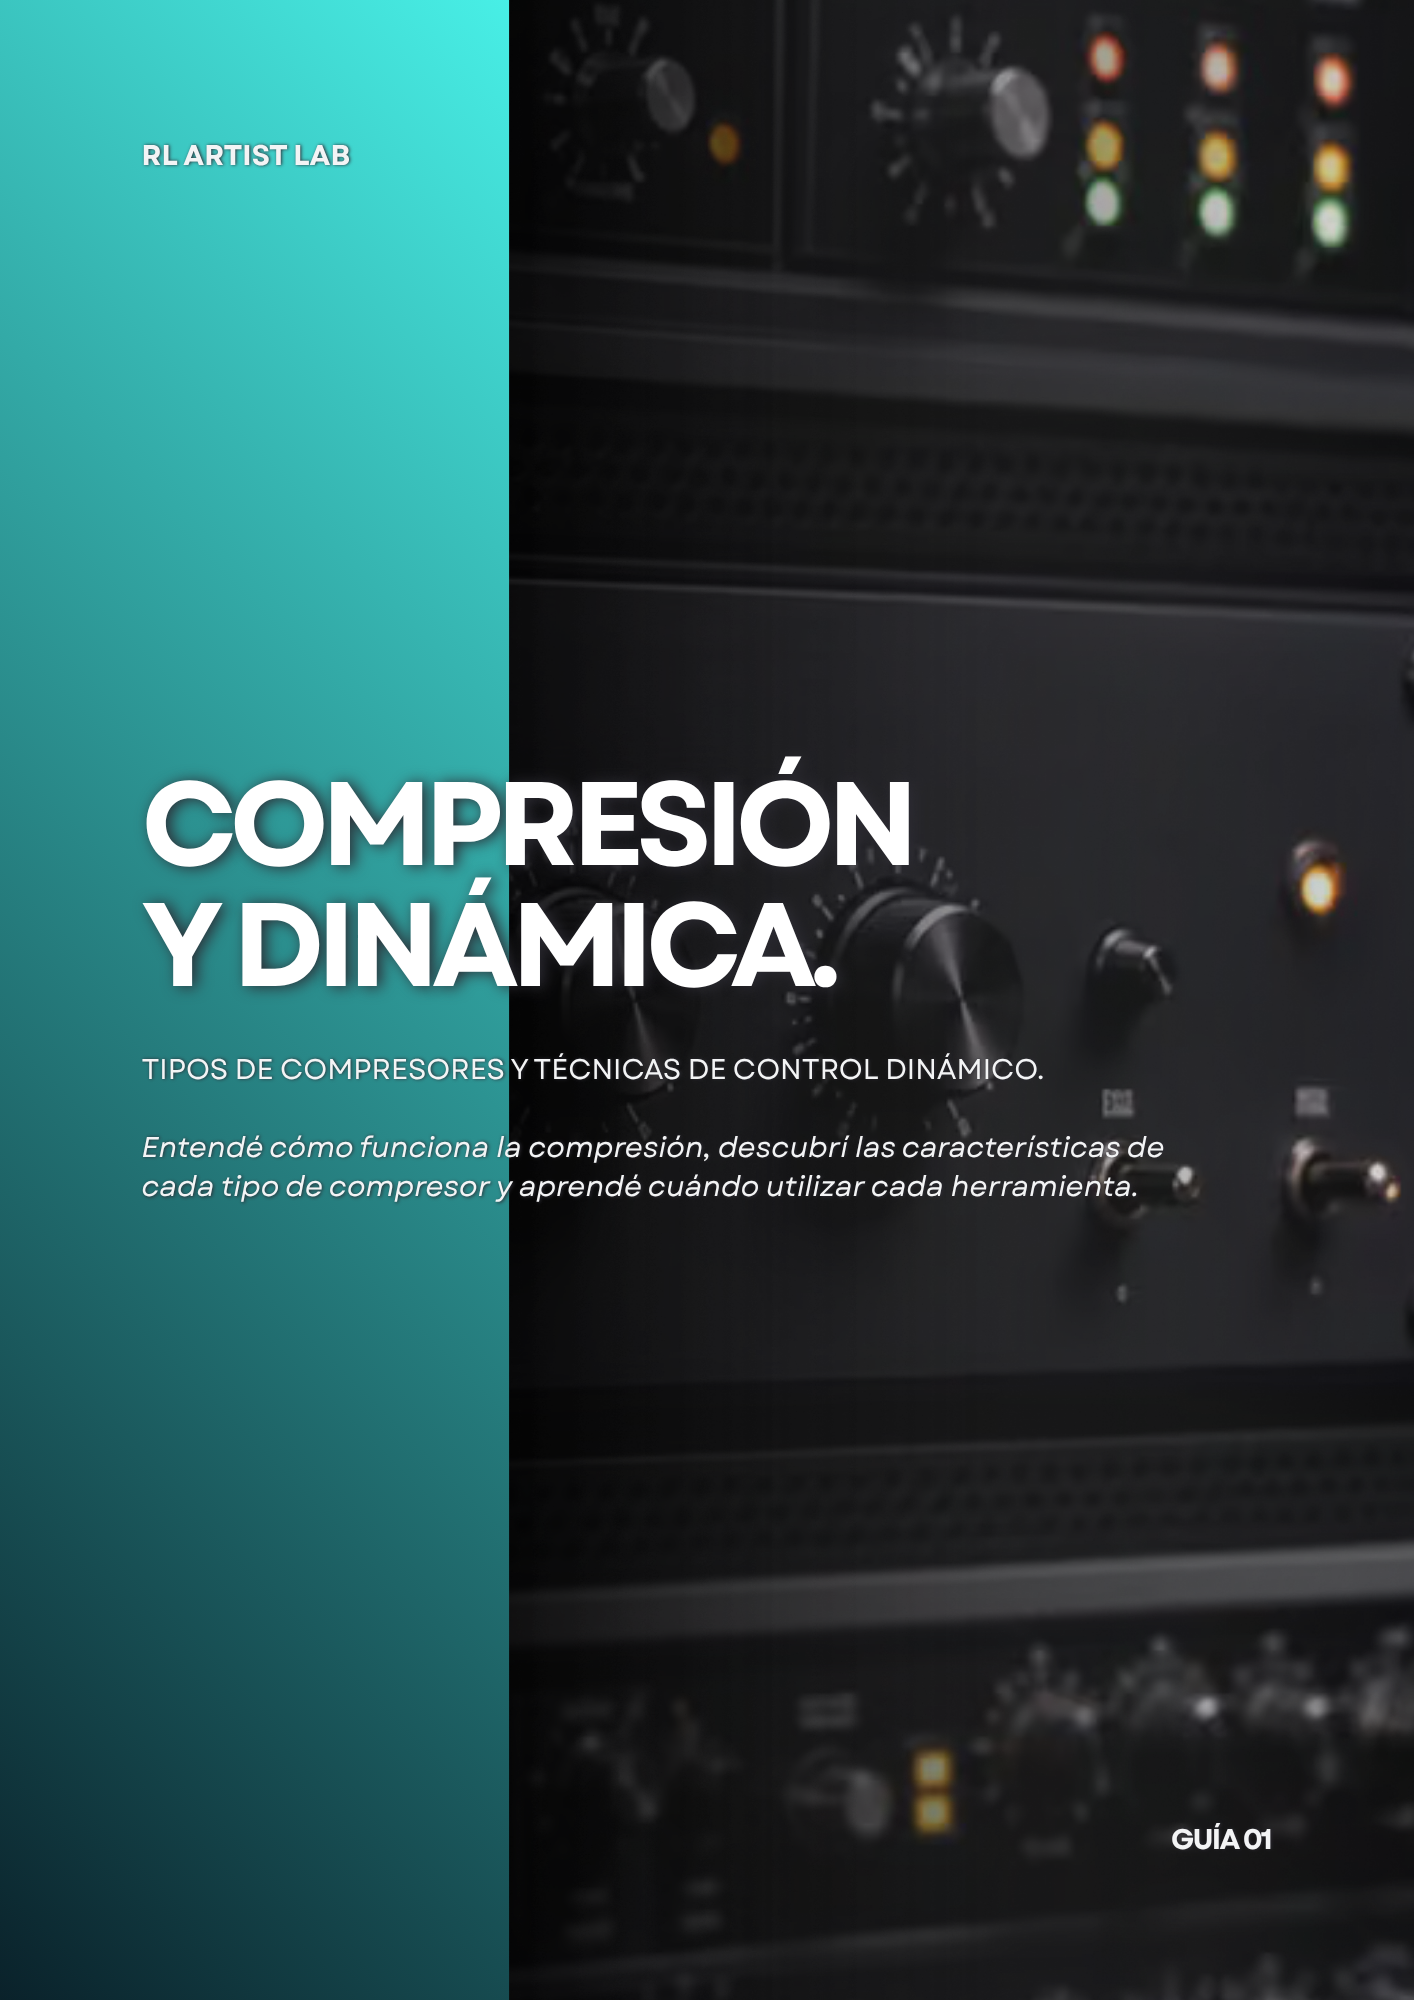
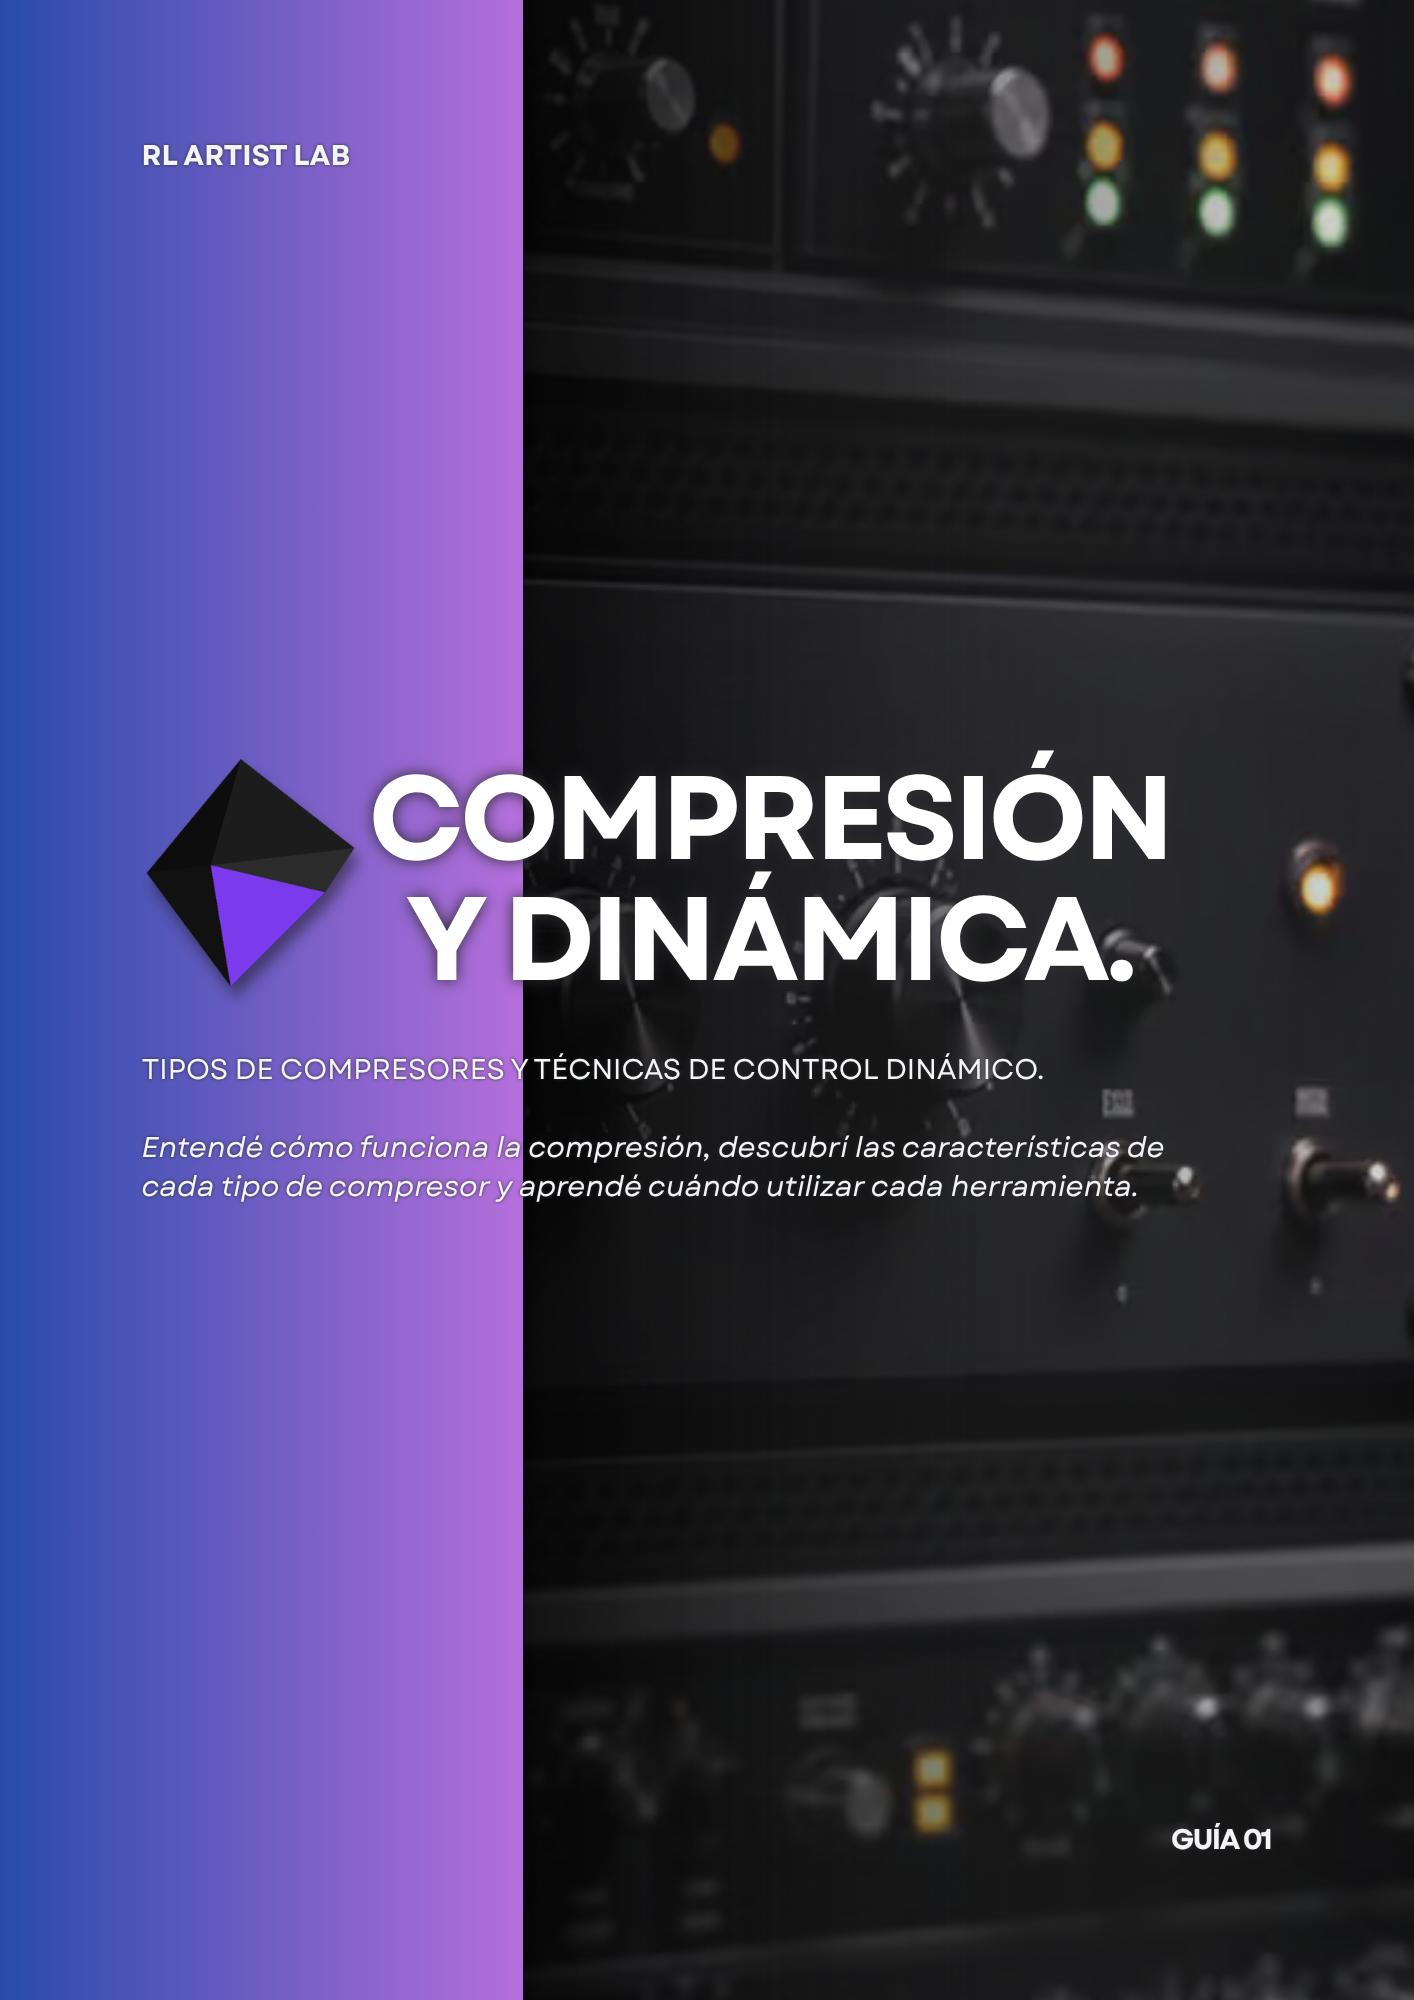
Reestructurar seccion Cursos en grilla y nueva pagina Creator 360

diff --git a/curso-creator-360.html b/curso-creator-360.html
@@ -1,0 +1,192 @@
+<!DOCTYPE html>
+<html lang="es">
+<head>
+<meta charset="UTF-8">
+<meta name="viewport" content="width=device-width, initial-scale=1.0">
+
+<title>Creator 360 Coaching | RL Artist Lab</title>
+<meta name="description" content="Creator 360 Coaching: acompañamiento 100% personalizado en 3 niveles para desarrollar tu identidad musical, con Angel Marcelo.">
+<meta name="robots" content="index, follow">
+<link rel="canonical" href="https://angelmarcelok.github.io/curso-creator-360.html">
+
+<meta property="og:type" content="website">
+<meta property="og:site_name" content="RL Artist Lab">
+<meta property="og:title" content="Creator 360 Coaching | RL Artist Lab">
+<meta property="og:description" content="Acompañamiento 100% personalizado, adaptado a tu nivel, tus objetivos y tu forma de aprender.">
+<meta property="og:url" content="https://angelmarcelok.github.io/curso-creator-360.html">
+<meta property="og:image" content="https://angelmarcelok.github.io/img/curso-creator-360.jpg">
+<meta property="og:locale" content="es_AR">
+
+<link rel="icon" type="image/png" sizes="32x32" href="img/favicon-32.png">
+<link rel="icon" type="image/png" sizes="512x512" href="img/favicon-512.png">
+<link rel="apple-touch-icon" href="img/favicon-512.png">
+
+<link rel="preconnect" href="https://fonts.googleapis.com">
+<link rel="preconnect" href="https://fonts.gstatic.com" crossorigin>
+<link href="https://fonts.googleapis.com/css2?family=Space+Grotesk:wght@400;500;700&family=Inter:wght@400;500;600&family=IBM+Plex+Mono:wght@400;500&display=swap" rel="stylesheet">
+<link rel="stylesheet" href="css/style.css">
+</head>
+<body>
+
+<div class="waveform-bg" aria-hidden="true"></div>
+
+<header class="site-header">
+  <a href="index.html#home" class="logo" aria-label="RL Artist Lab — Ir al inicio">
+    <svg class="logo-mark" viewBox="0 0 100 100" aria-hidden="true">
+      <polygon points="50,4 38,47 12,50" fill="#0d0d0d"/>
+      <polygon points="50,4 96,40 38,47" fill="#1c1c1c"/>
+      <polygon points="96,40 84,58 38,47" fill="#2b2b2b"/>
+      <polygon points="12,50 38,47 46,96" fill="#111111"/>
+      <polygon points="38,47 84,58 46,96" fill="#E8720F"/>
+    </svg>
+    <span class="logo-text">RL Artist Lab</span>
+  </a>
+  <button class="nav-toggle" id="navToggle" aria-label="Abrir menú" aria-expanded="false">
+    <span></span><span></span><span></span>
+  </button>
+  <nav class="site-nav" id="siteNav">
+    <a href="index.html#cursos">Cursos</a>
+    <a href="index.html#samples">Samplepacks</a>
+    <a href="index.html#guias">Guías</a>
+    <a href="index.html#servicios">Servicios</a>
+    <a href="index.html#tutoriales">Tutoriales</a>
+    <a href="#" class="nav-locked" title="Próximamente">Mi Usuario 🔒</a>
+  </nav>
+</header>
+
+<main>
+
+  <!-- Barra de navegación específica de esta página -->
+  <div class="subpage-nav">
+    <a href="index.html#cursos" class="btn btn-outline btn-small">← Volver a Cursos</a>
+  </div>
+
+  <!-- CREATOR 360 COACHING -->
+  <section class="section" id="creator-360">
+    <div class="course-card">
+      <span class="badge">Creator 360 Coaching</span>
+      <h1>Desarrollá tu identidad musical</h1>
+      <p class="section-intro course-lead">Un recorrido en 3 niveles para pasar de tus primeras ideas a un proyecto listo para lanzar. Acompañamiento 100% personalizado, adaptado a tu nivel, tus objetivos y tu forma de aprender.</p>
+
+      <div class="level-grid">
+        <div class="level-card">
+          <p class="level-num">01</p>
+          <h3>Inicial</h3>
+          <p>Bases de producción en FL Studio: teoría musical, mezcla y mastering de punta a punta, hasta terminar tu primera canción completa.</p>
+        </div>
+        <div class="level-card">
+          <p class="level-num">02</p>
+          <h3>Intermedio</h3>
+          <p>Auditoría de tu nivel actual y acompañamiento personalizado para pulir tu flujo de trabajo, tu criterio de mezcla y tu identidad sonora.</p>
+        </div>
+        <div class="level-card">
+          <p class="level-num">03</p>
+          <h3>Avanzado</h3>
+          <p>Profesionalización: industria musical, derechos de autor, marca personal y un proyecto final con estándares comerciales.</p>
+        </div>
+      </div>
+
+      <div class="course-info-grid">
+        <div class="course-faq-col">
+          <h3>Preguntas frecuentes</h3>
+          <details>
+            <summary>¿Necesito experiencia previa?</summary>
+            <p>No. Elegimos el nivel según tu punto de partida.</p>
+          </details>
+          <details>
+            <summary>¿Cómo son las clases?</summary>
+            <p>18 clases individuales de 1,5 h por Zoom, con seguimiento personalizado.</p>
+          </details>
+          <details>
+            <summary>¿Puedo hacer un solo nivel?</summary>
+            <p>Sí. Cada nivel es independiente o puede formar parte del recorrido anual.</p>
+          </details>
+        </div>
+
+        <div class="course-summary-col">
+          <p class="course-meta">18 clases de 1,5 h · 4 meses · 100% online · seguimiento personalizado</p>
+          <p class="course-price">Desde AR$ 235.000/mes <span class="price-off">· 15% OFF para ex alumnos</span></p>
+
+          <div class="course-cta">
+            <button type="button" class="btn btn-primary btn-disabled" disabled>Comprar - Próximamente</button>
+            <button type="button" class="btn btn-outline" id="btnVerPrograma">Ver programa completo</button>
+          </div>
+        </div>
+      </div>
+    </div>
+  </section>
+
+</main>
+
+<footer class="site-footer-main">
+  <div class="footer-grid footer-grid-4">
+    <div class="footer-col footer-col-nav footer-col-brand">
+      <h3>RL Artist Lab</h3>
+      <p class="footer-tagline">Formación y desarrollo para artistas.</p>
+      <p class="footer-desc">Todo lo que necesitás para aprender, producir y desarrollar tu identidad musical, en un solo lugar.</p>
+      <div class="socials">
+        <a href="#" class="social-icon" data-social="instagram" aria-label="Instagram (próximamente)">
+          <svg viewBox="0 0 24 24" fill="none" stroke="currentColor" stroke-width="1.8"><rect x="2.5" y="2.5" width="19" height="19" rx="5"/><circle cx="12" cy="12" r="4.3"/><circle cx="17.2" cy="6.8" r="1"/></svg>
+        </a>
+        <a href="#" class="social-icon" data-social="youtube" aria-label="YouTube (próximamente)">
+          <svg viewBox="0 0 24 24" fill="none" stroke="currentColor" stroke-width="1.8"><rect x="2" y="5" width="20" height="14" rx="4"/><path d="M10 9.5l6 2.5-6 2.5z" fill="currentColor" stroke="none"/></svg>
+        </a>
+        <a href="#" class="social-icon" data-social="linkedin" aria-label="LinkedIn (próximamente)">
+          <svg viewBox="0 0 24 24" fill="none" stroke="currentColor" stroke-width="1.8"><rect x="2.5" y="2.5" width="19" height="19" rx="3"/><line x1="7" y1="10" x2="7" y2="17"/><circle cx="7" cy="6.7" r="0.9" fill="currentColor" stroke="none"/><path d="M11.5 17v-4.5c0-1.5 1-2.5 2.5-2.5s2.3 1 2.3 2.5V17"/><line x1="11.5" y1="10" x2="11.5" y2="17"/></svg>
+        </a>
+      </div>
+    </div>
+
+    <div class="footer-col footer-col-nav">
+      <h3>Navegación</h3>
+      <nav aria-label="Navegación del footer">
+        <a href="index.html#cursos">Cursos</a>
+        <a href="index.html#samples">Samplepacks</a>
+        <a href="index.html#guias">Guías</a>
+        <a href="index.html#servicios">Servicios</a>
+        <a href="index.html#tutoriales">Tutoriales</a>
+        <a href="#" class="nav-locked" title="Próximamente">Mi Usuario</a>
+      </nav>
+    </div>
+
+    <div class="footer-col footer-col-nav">
+      <h3>Información</h3>
+      <nav aria-label="Información">
+        <a href="feedback.html#feedback">Feedback de alumnos</a>
+        <a href="feedback.html#nosotros">Nosotros</a>
+        <a href="feedback.html#contacto">Contacto</a>
+      </nav>
+    </div>
+
+    <div class="footer-col footer-col-nav">
+      <h3>Legal</h3>
+      <nav aria-label="Legal">
+        <a href="#" title="Próximamente">Términos y Condiciones</a>
+        <a href="#" title="Próximamente">Política de Privacidad</a>
+      </nav>
+    </div>
+  </div>
+
+  <div class="footer-bottom">
+    <p>© <span id="year"></span> RL Artist Lab. Todos los derechos reservados.</p>
+  </div>
+</footer>
+
+<div class="pdf-modal" id="pdfModal" aria-hidden="true">
+  <div class="pdf-modal-backdrop" data-pdf-close></div>
+  <div class="pdf-modal-content" role="dialog" aria-modal="true" aria-label="Programa completo — Creator 360 Coaching">
+    <button type="button" class="pdf-modal-close" data-pdf-close aria-label="Cerrar visor">✕</button>
+    <div class="pdf-viewer">
+      <img src="img/programa/pagina-1.jpg" alt="Página del programa Creator 360 Coaching" id="pdfPageImg" draggable="false" oncontextmenu="return false">
+    </div>
+    <div class="pdf-modal-nav">
+      <button type="button" class="btn btn-small" id="pdfPrev">← Anterior</button>
+      <span class="pdf-page-indicator" id="pdfPageIndicator">1 / 8</span>
+      <button type="button" class="btn btn-small" id="pdfNext">Siguiente →</button>
+    </div>
+  </div>
+</div>
+
+<script src="js/script.js"></script>
+</body>
+</html>

diff --git a/index.html b/index.html
@@ -78,7 +78,7 @@
       "description": "Acompañamiento personalizado en producción musical, organizado en tres niveles (Inicial, Intermedio, Avanzado): bases de producción en FL Studio, optimización de flujo de trabajo e identidad sonora, y profesionalización en la industria musical.",
       "provider": { "@id": "https://angelmarcelok.github.io/#organization" },
       "courseMode": "online",
-      "url": "https://angelmarcelok.github.io/#cursos",
+      "url": "https://angelmarcelok.github.io/curso-creator-360.html",
       "offers": {
         "@type": "Offer",
         "price": "235000",
@@ -174,58 +174,40 @@
 
   <!-- CURSOS -->
   <section id="cursos" class="section">
-    <h2>Cursos de Producción Musical</h2>
+    <h2>Cursos</h2>
 
-    <div class="course-card">
-      <span class="badge">Creator 360 Coaching</span>
-      <h3>Desarrollá tu identidad musical</h3>
-      <p class="section-intro course-lead">Un recorrido en 3 niveles para pasar de tus primeras ideas a un proyecto listo para lanzar. Acompañamiento 100% personalizado, adaptado a tu nivel, tus objetivos y tu forma de aprender.</p>
+    <div class="pack-grid" id="cursosGrid">
+      <a href="curso-creator-360.html" class="pack-card pack-card-link">
+        <div class="pack-art pack-art-real">
+          <img src="img/curso-creator-360.jpg" alt="Creator 360 Coaching" loading="lazy">
+        </div>
+        <p class="pack-genre">Curso 01</p>
+        <h3>Creator 360 Coaching</h3>
+        <p class="pack-meta">Acompañamiento 100% personalizado, adaptado a tu nivel, tus objetivos y tu forma de aprender.</p>
+      </a>
 
-      <div class="level-grid">
-        <div class="level-card">
-          <p class="level-num">01</p>
-          <h4>Inicial</h4>
-          <p>Bases de producción en FL Studio: teoría musical, mezcla y mastering de punta a punta, hasta terminar tu primera canción completa.</p>
+      <article class="pack-card">
+        <div class="pack-art pack-art-real">
+          <img src="img/curso-introduccion.jpg" alt="Introducción a la producción musical" loading="lazy">
         </div>
-        <div class="level-card">
-          <p class="level-num">02</p>
-          <h4>Intermedio</h4>
-          <p>Auditoría de tu nivel actual y acompañamiento personalizado para pulir tu flujo de trabajo, tu criterio de mezcla y tu identidad sonora.</p>
-        </div>
-        <div class="level-card">
-          <p class="level-num">03</p>
-          <h4>Avanzado</h4>
-          <p>Profesionalización: industria musical, derechos de autor, marca personal y un proyecto final con estándares comerciales.</p>
-        </div>
-      </div>
+        <p class="pack-genre">Curso 02</p>
+        <h3>Introducción a la producción musical</h3>
+        <p class="pack-meta">Desarrollá una base sólida en producción musical y adquirí las herramientas necesarias para comenzar tu camino como productor.</p>
+      </article>
 
-      <div class="course-info-grid">
-        <div class="course-faq-col">
-          <h4>Preguntas frecuentes</h4>
-          <details>
-            <summary>¿Necesito experiencia previa?</summary>
-            <p>No. Elegimos el nivel según tu punto de partida.</p>
-          </details>
-          <details>
-            <summary>¿Cómo son las clases?</summary>
-            <p>18 clases individuales de 1,5 h por Zoom, con seguimiento personalizado.</p>
-          </details>
-          <details>
-            <summary>¿Puedo hacer un solo nivel?</summary>
-            <p>Sí. Cada nivel es independiente o puede formar parte del recorrido anual.</p>
-          </details>
+      <article class="pack-card">
+        <div class="pack-art pack-art-real">
+          <img src="img/curso-voces.jpg" alt="Cómo grabar y mezclar voces" loading="lazy">
         </div>
+        <p class="pack-genre">Curso 03</p>
+        <h3>Cómo grabar y mezclar voces</h3>
+        <p class="pack-meta">Conocé las técnicas esenciales de grabación, edición y mezcla para lograr voces claras, potentes y profesionales.</p>
+      </article>
 
-        <div class="course-summary-col">
-          <p class="course-meta">18 clases de 1,5 h · 4 meses · 100% online · seguimiento personalizado</p>
-          <p class="course-price">Desde AR$ 235.000/mes <span class="price-off">· 15% OFF para ex alumnos</span></p>
-
-          <div class="course-cta">
-            <button type="button" class="btn btn-primary btn-disabled" disabled>Comprar - Próximamente</button>
-            <button type="button" class="btn btn-outline" id="btnVerPrograma">Ver programa completo</button>
-          </div>
-        </div>
-      </div>
+      <article class="pack-card pack-card-empty">
+        <div class="pack-art"></div>
+        <p class="pack-coming">Próximamente</p>
+      </article>
     </div>
   </section>
 
@@ -429,21 +411,6 @@
     <p>© <span id="year"></span> RL Artist Lab. Todos los derechos reservados.</p>
   </div>
 </footer>
-
-<div class="pdf-modal" id="pdfModal" aria-hidden="true">
-  <div class="pdf-modal-backdrop" data-pdf-close></div>
-  <div class="pdf-modal-content" role="dialog" aria-modal="true" aria-label="Programa completo — Creator 360 Coaching">
-    <button type="button" class="pdf-modal-close" data-pdf-close aria-label="Cerrar visor">✕</button>
-    <div class="pdf-viewer">
-      <img src="img/programa/pagina-1.jpg" alt="Página del programa Creator 360 Coaching" id="pdfPageImg" draggable="false" oncontextmenu="return false">
-    </div>
-    <div class="pdf-modal-nav">
-      <button type="button" class="btn btn-small" id="pdfPrev">← Anterior</button>
-      <span class="pdf-page-indicator" id="pdfPageIndicator">1 / 8</span>
-      <button type="button" class="btn btn-small" id="pdfNext">Siguiente →</button>
-    </div>
-  </div>
-</div>
 
 <script src="js/script.js"></script>
 </body>

diff --git a/css/style.css b/css/style.css
@@ -682,6 +682,9 @@ a { color: inherit; }
 @media (hover: none) {
   .preview-play { opacity: 1; }
 }
+.pack-card-link { display: block; text-decoration: none; color: inherit; cursor: pointer; }
+.pack-card-link:hover { border-color: var(--amber-dim); transform: translateY(-3px); }
+
 .pack-footer-single { justify-content: flex-end; }
 
 .pack-card-empty {
